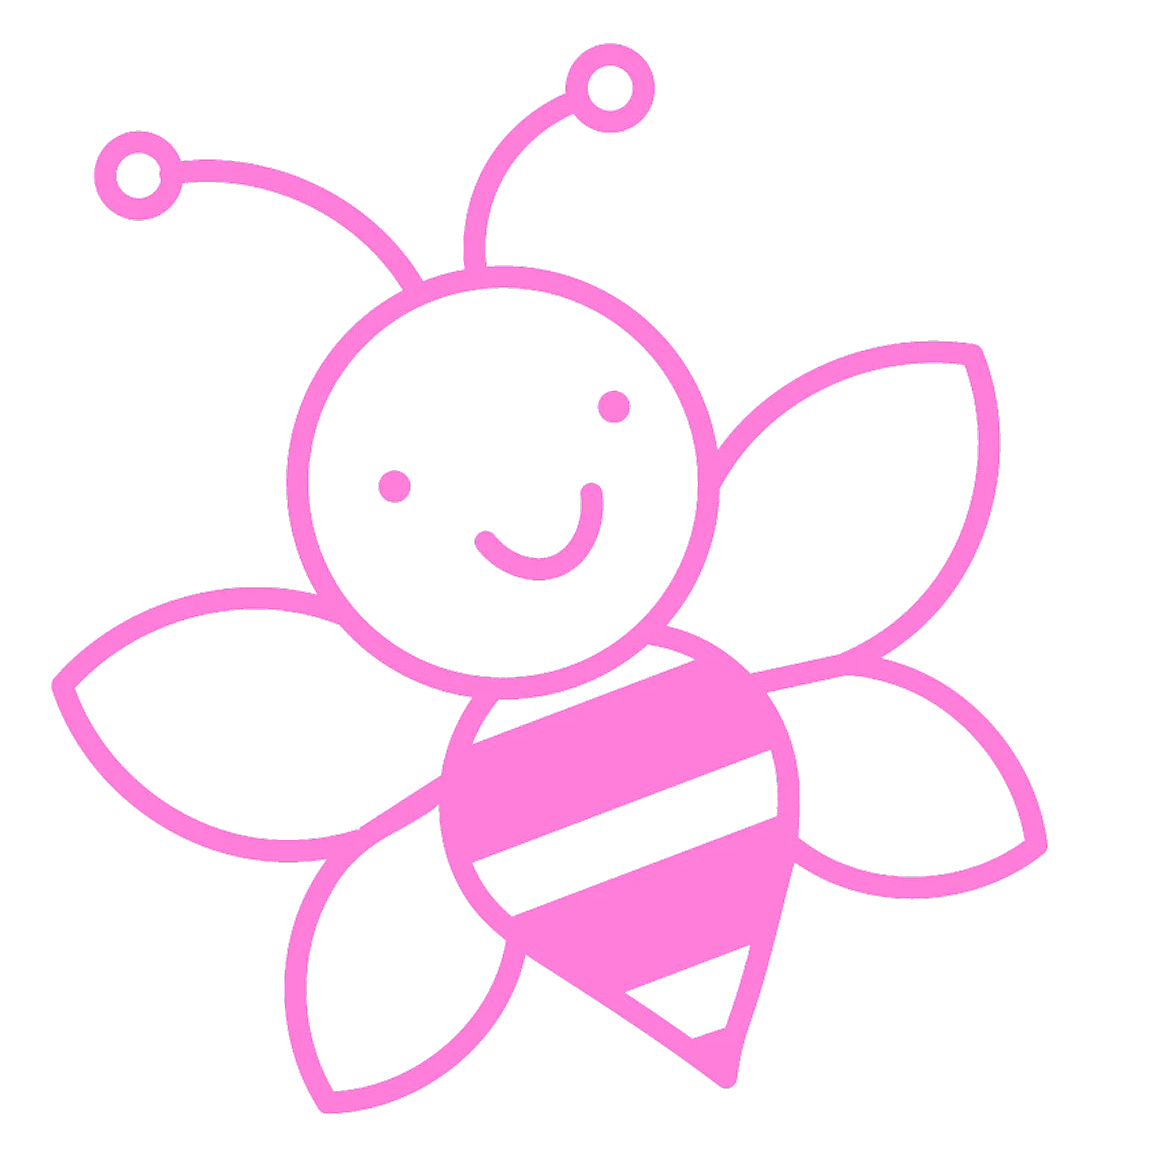
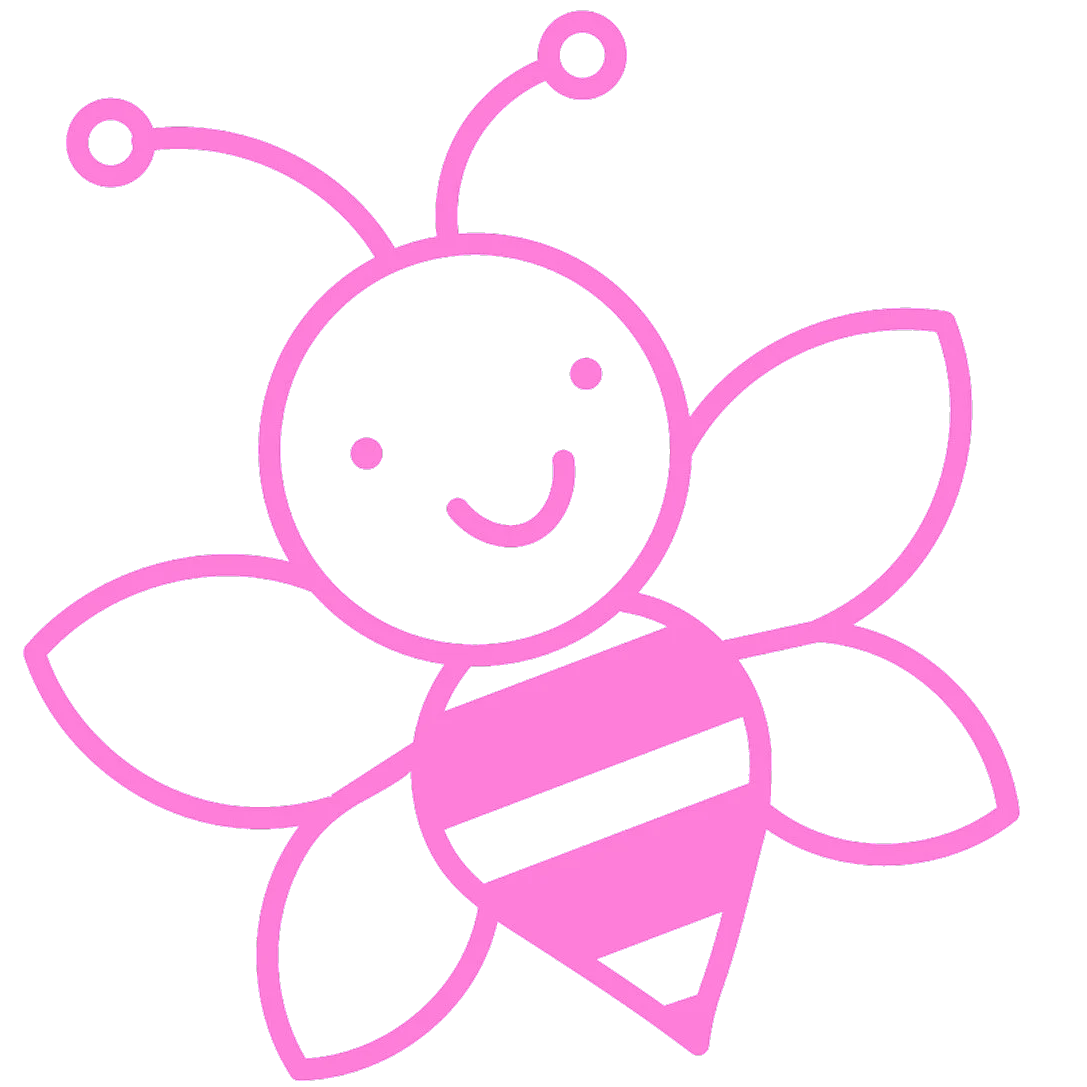
Another image attempt

Changed region(s): [[0.0, 0.0, 0.9411, 1.0], [0.425, 0.3947, 0.5465, 0.5161], [0.3947, 0.4554, 0.425, 0.4857]]

diff --git a/public/index.html b/public/index.html
@@ -7,7 +7,7 @@
   <link rel="preconnect" href="https://fonts.googleapis.com">
   <link rel="preconnect" href="https://fonts.gstatic.com" crossorigin>
   <link href="https://fonts.googleapis.com/css2?family=Poppins:wght@400;600;700&display=swap" rel="stylesheet">
-  <link rel="icon" href="/pinkbee.png" type="image/png">
+  <link rel="icon" href="/pinkbee2.png" type="image/png">
   <link rel="stylesheet" href="/styles.css">
 </head>
 <body>
